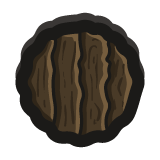
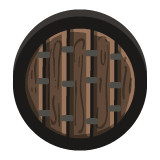
LesBrutes:
Adding shields

diff --git a/js/brute/shield.js b/js/brute/shield.js
@@ -9,6 +9,40 @@ class Shield {
 class Shields {
 	constructor() {
 		this.baseShield = new Shield(1, 0,  new ShieldSprite("../image/brute/shields/t1/baseShield.png"));
+		this.loveShield = new Shield(2, 0,  new ShieldSprite("../image/brute/shields/t1/loveShield.png"));
+		this.roundShield = new Shield(3, 0,  new ShieldSprite("../image/brute/shields/t1/roundShield.png"));
+		this.squareShield = new Shield(4, 0,  new ShieldSprite("../image/brute/shields/t1/squareShield.png"));
+		this.u2Shield = new Shield(5, 0,  new ShieldSprite("../image/brute/shields/t1/u2Shield.png"));
+		this.uShield = new Shield(6, 0,  new ShieldSprite("../image/brute/shields/t1/uShield.png"));
+		this.v2Shield = new Shield(7, 0,  new ShieldSprite("../image/brute/shields/t1/v2Shield.png"));
+		this.vShield = new Shield(8, 0,  new ShieldSprite("../image/brute/shields/t1/vShield.png"));
+		
+		this.baseShieldT2 = new Shield(11, 5,  new ShieldSprite("../image/brute/shields/t2/baseShield.png"));
+		this.loveShieldT2 = new Shield(12, 5,  new ShieldSprite("../image/brute/shields/t2/loveShield.png"));
+		this.roundShieldT2 = new Shield(13, 5,  new ShieldSprite("../image/brute/shields/t2/roundShield.png"));
+		this.squareShieldT2 = new Shield(14, 5,  new ShieldSprite("../image/brute/shields/t2/squareShield.png"));
+		this.u2ShieldT2 = new Shield(15, 5,  new ShieldSprite("../image/brute/shields/t2/u2Shield.png"));
+		this.uShieldT2 = new Shield(16, 5,  new ShieldSprite("../image/brute/shields/t2/uShield.png"));
+		this.v2ShieldT2 = new Shield(17, 5,  new ShieldSprite("../image/brute/shields/t2/v2Shield.png"));
+		this.vShieldT2 = new Shield(18, 5,  new ShieldSprite("../image/brute/shields/t2/vShield.png"));
+		
+		this.baseShieldT3 = new Shield(21, 10,  new ShieldSprite("../image/brute/shields/t3/baseShield.png"));
+		this.loveShieldT3 = new Shield(22, 10,  new ShieldSprite("../image/brute/shields/t3/loveShield.png"));
+		this.roundShieldT3 = new Shield(23, 10,  new ShieldSprite("../image/brute/shields/t3/roundShield.png"));
+		this.squareShieldT3 = new Shield(24, 10,  new ShieldSprite("../image/brute/shields/t3/squareShield.png"));
+		this.u2ShieldT3 = new Shield(25, 10,  new ShieldSprite("../image/brute/shields/t3/u2Shield.png"));
+		this.uShieldT3 = new Shield(26, 10,  new ShieldSprite("../image/brute/shields/t3/uShield.png"));
+		this.v2ShieldT3 = new Shield(27, 10,  new ShieldSprite("../image/brute/shields/t3/v2Shield.png"));
+		this.vShieldT3 = new Shield(28, 10,  new ShieldSprite("../image/brute/shields/t3/vShield.png"));
+		
+		this.baseShieldT4 = new Shield(31, 15,  new ShieldSprite("../image/brute/shields/t4/baseShield.png"));
+		this.loveShieldT4 = new Shield(32, 15,  new ShieldSprite("../image/brute/shields/t4/loveShield.png"));
+		this.roundShieldT4 = new Shield(33, 15,  new ShieldSprite("../image/brute/shields/t4/roundShield.png"));
+		this.squareShieldT4 = new Shield(34, 15,  new ShieldSprite("../image/brute/shields/t4/squareShield.png"));
+		this.u2ShieldT4 = new Shield(35, 15,  new ShieldSprite("../image/brute/shields/t4/u2Shield.png"));
+		this.uShieldT4 = new Shield(36, 15,  new ShieldSprite("../image/brute/shields/t4/uShield.png"));
+		this.v2ShieldT4 = new Shield(37, 15,  new ShieldSprite("../image/brute/shields/t4/v2Shield.png"));
+		this.vShieldT4 = new Shield(38, 15,  new ShieldSprite("../image/brute/shields/t4/vShield.png"));
 	}
 	
 	getShieldByCode(code) {
@@ -17,13 +51,24 @@ class Shields {
 		return result.length > 0 ? result[0] : null;
 	}
 	
-	
 	getTier1Shields() {
-		return [this.baseShield];
+		return [this.baseShield, this.loveShield, this.roundShield, this.squareShield, this.u2Shield, this.uShield, this.v2Shield, this.vShield];
+	}
+	
+	getTier2Shields() {
+		return [this.baseShieldT2, this.loveShieldT2, this.roundShieldT2, this.squareShieldT2, this.u2ShieldT2, this.uShieldT2, this.v2ShieldT2, this.vShieldT2];
+	}
+	
+	getTier3Shields() {
+		return [this.baseShieldT3, this.loveShieldT3, this.roundShieldT3, this.squareShieldT3, this.u2ShieldT3, this.uShieldT3, this.v2ShieldT3, this.vShieldT3];
+	}
+	
+	getTier4Shields() {
+		return [this.baseShieldT4, this.loveShieldT4, this.roundShieldT4, this.squareShieldT4, this.u2ShieldT4, this.uShieldT4, this.v2ShieldT4, this.vShieldT4];
 	}
 	
 	getAllShields() {
-		return this.getTier1Shields();
+		return this.getTier1Shields().concat(this.getTier2Shields()).concat(this.getTier3Shields()).concat(this.getTier4Shields());
 	}
 	
 	getRandomT1Shield() {
@@ -31,6 +76,12 @@ class Shields {
 		var randomIndex = randomIntFromInterval(0, t1Shields.length-1);
 		return t1Shields[randomIndex];
 	}
+	
+	getUpgrade(shield) {
+		var upgradedShield = this.getShieldByCode(shield.code + 10);
+		return upgradedShield != null ? upgradedShield : shield;
+	}
+	
 	
 }
 
@@ -44,7 +95,7 @@ class ShieldSprite {
         this.height = 160*this.scale;
     }
     
-    show(context, attachAtX, attachAtY, attachAtLeftX, attachAtLeftY, player, step) {
+    show(context, attachAtX, attachAtY, attachAtLeftX, attachAtLeftY, player) {
 		var x;
 	    var y;
 	    

diff --git a/js/brute/animation/sprite.js b/js/brute/animation/sprite.js
@@ -83,11 +83,12 @@ class PlayerSprite {
 	    context.drawImage(this.img, this.width*step, 0, this.width, this.height, this.player.positionX, this.player.positionY, this.width*s, this.height*s);
 	    this.showWeaponInventory();
 	    this.showSpellInventory();
+	    this.showShieldInventory();
 	}
 	
 	showShield(step) {
 		if (this.player.status == "blocking" && this.player.shield != null) {
-			this.player.shield.sprite.show(context,this.attachPointsX[step],this.attachPointsY[step],this.attachPointsLeftX[step],this.attachPointsLeftY[step], this.player, step);
+			this.player.shield.sprite.show(context,this.attachPointsX[step],this.attachPointsY[step],this.attachPointsLeftX[step],this.attachPointsLeftY[step], this.player);
 		}
 	}
 	
@@ -118,6 +119,16 @@ class PlayerSprite {
 			this.player.getAvailableWeapons().forEach(function (weapon, i) {
 		    	context.drawImage(weapon.sprite.img, 10, 635-(i*offset), weapon.sprite.width*s, weapon.sprite.height*s)
 			});
+		}
+	}
+	
+	showShieldInventory() {
+		var s = 0.6;
+		
+		if (this.player == player2) {
+		    	context.drawImage(this.player.shield.sprite.img, 1160, 660, this.player.shield.sprite.width*s, this.player.shield.sprite.height*s)
+		} else {
+		    	context.drawImage(this.player.shield.sprite.img, 360, 660, this.player.shield.sprite.width*s, this.player.shield.sprite.height*s)
 		}
 	}
 }

diff --git a/js/brute/lvlUpHandler.js b/js/brute/lvlUpHandler.js
@@ -20,6 +20,7 @@ class LvlUpHandler {
 		this._giveWeaponIfPossible(player);
 		this._giveSpellIfPossible(player);
 		this._giveCauldronIfPossible(player);
+		this._upgradeShieldIfPossible(player);
 
 		if (player == player1) {
 			$('#lvlUpModal').modal({ backdrop: 'static', keyboard: false })
@@ -152,7 +153,21 @@ class LvlUpHandler {
 		}
 	}
 	
+	_upgradeShieldIfPossible(player) {
+		$("#lvlUpShieldContainer").hide();
+		if (player.shield != null && player.lvl % 5 == 0) { 
+			var rand = randomIntFromInterval(0, 100);
+			if (rand >= 75) {
+				this._upgradeShield(player);
+			}
+		}
+	}
 	
+	_upgradeShield(player) {
+		player.shield = shields.getUpgrade(player.shield);
+		$("#lvlUpShieldContainer").show();
+		$("#lvlUpShield").attr('src', player.shield.sprite.img.src);
+	}
 }
 
 function randomIntFromInterval(min, max) { // min and max included 

diff --git a/html/brutes.html b/html/brutes.html
@@ -95,6 +95,9 @@
 			<div id="lvlUpCauldronContainer" >
 				<img id="lvlUpCauldron" class="statsImg" >
 			</div>
+			<div id="lvlUpShieldContainer" >
+				<img id="lvlUpShield" class="statsImg" >
+			</div>
 			<div>
 			<h5 class="text-white col-12">Pick one: </h5>
 					<img id="lvlUpStat2" class="statsImg statChoice border-success rounded" onClick="lvlUpHandler.onSelect(0, this);" >
